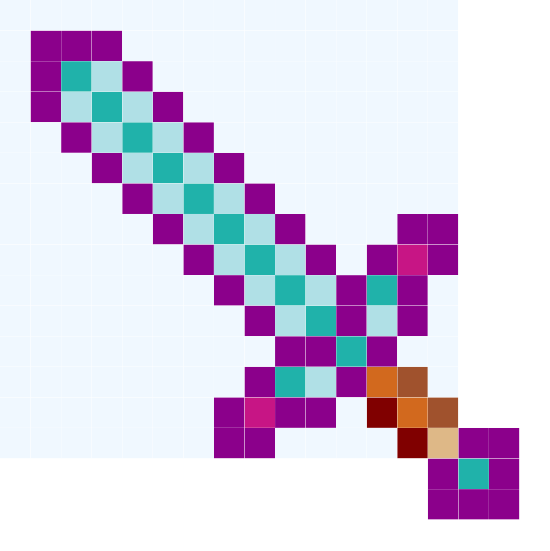
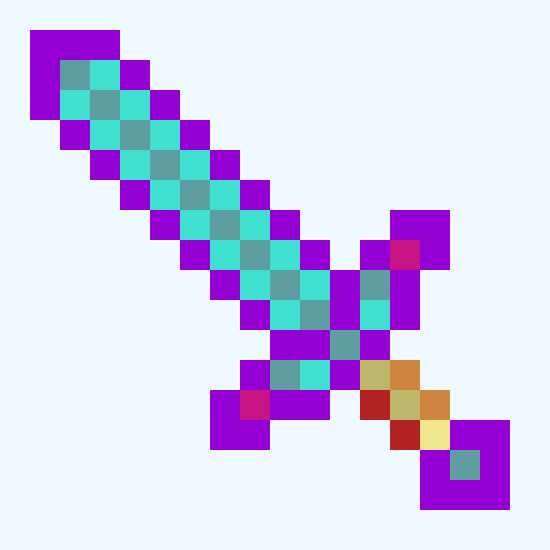
docs: update images, readme & todo

Changed region(s): [[0.0309, 0.0309, 0.9582, 0.9582]]

diff --git a/README.md b/README.md
@@ -1,13 +1,20 @@
 # Pixaday
 
-A canvas for PixelArt
+A canvas for pixel art
 
 ---
 
-### Examples
+## Examples
 
-- A sword, and it's enchanted too. Be careful.  
-  ![just a sword, but it's enchanted](/docs/images/sword.png)
+#### A sword, and it's enchanted too. Be careful.
+
+![just a sword, but it's enchanted](/docs/images/sword.png)
+
+#### A _legacy_ <sup>\*</sup> sword, and it's enchanted too. Be careful.
+
+![just a sword, but it's enchanted](/docs/images/sword_legacy.png)
+
+- <sup>*</sup> Why *legacy\*? Because this project now uses the [Canvas API](https://developer.mozilla.org/en-US/docs/Web/API/Canvas_API) instead of some rudimentary background-colored divs. Apart from the amount of lines that this change has allowed me to remove (lie: I didn't actually removed that code, I left it for comparison, but I could) it also re-introduces -what I consider the best part- a cleaner **Save Image** feature result. Just notice how in the legacy version you can see the div borders and in the updated version there's none. Magic.
 
 ---
 

diff --git a/todo.md b/todo.md
@@ -5,9 +5,8 @@
     - [x] horizontal
     - [x] diagonal (increasing \/ and decreasing \\)
     - [ ] custom ?
-- (1) Migrate from divs to canvas !!!
-- Allow to empty the background
-    - (1) !!!
+- [x] Migrate from divs to canvas !!!
+- [ ] Allow to empty the background
 - A top-last drawings table (only drawing and author's signature - no auth)
     - Nice Metadata to show
         - If the drawing was made with only the today's selection
